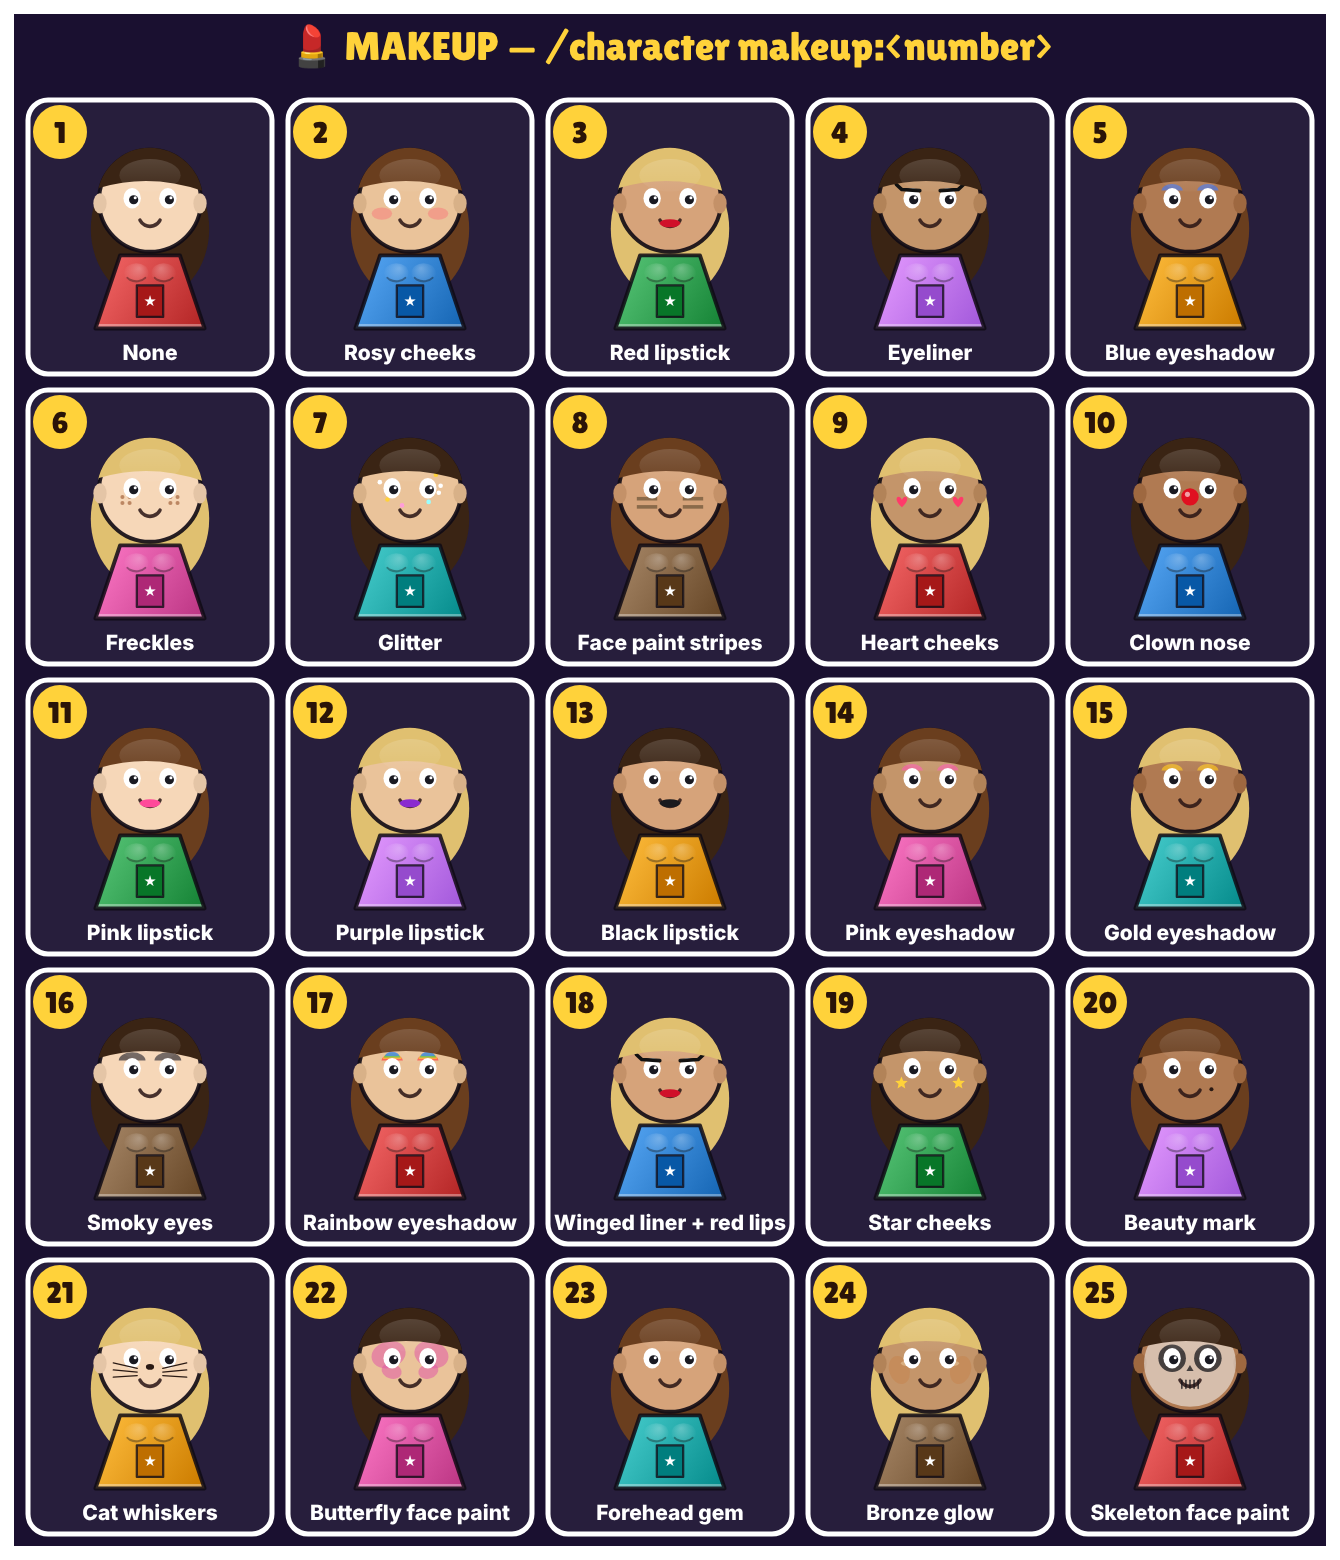
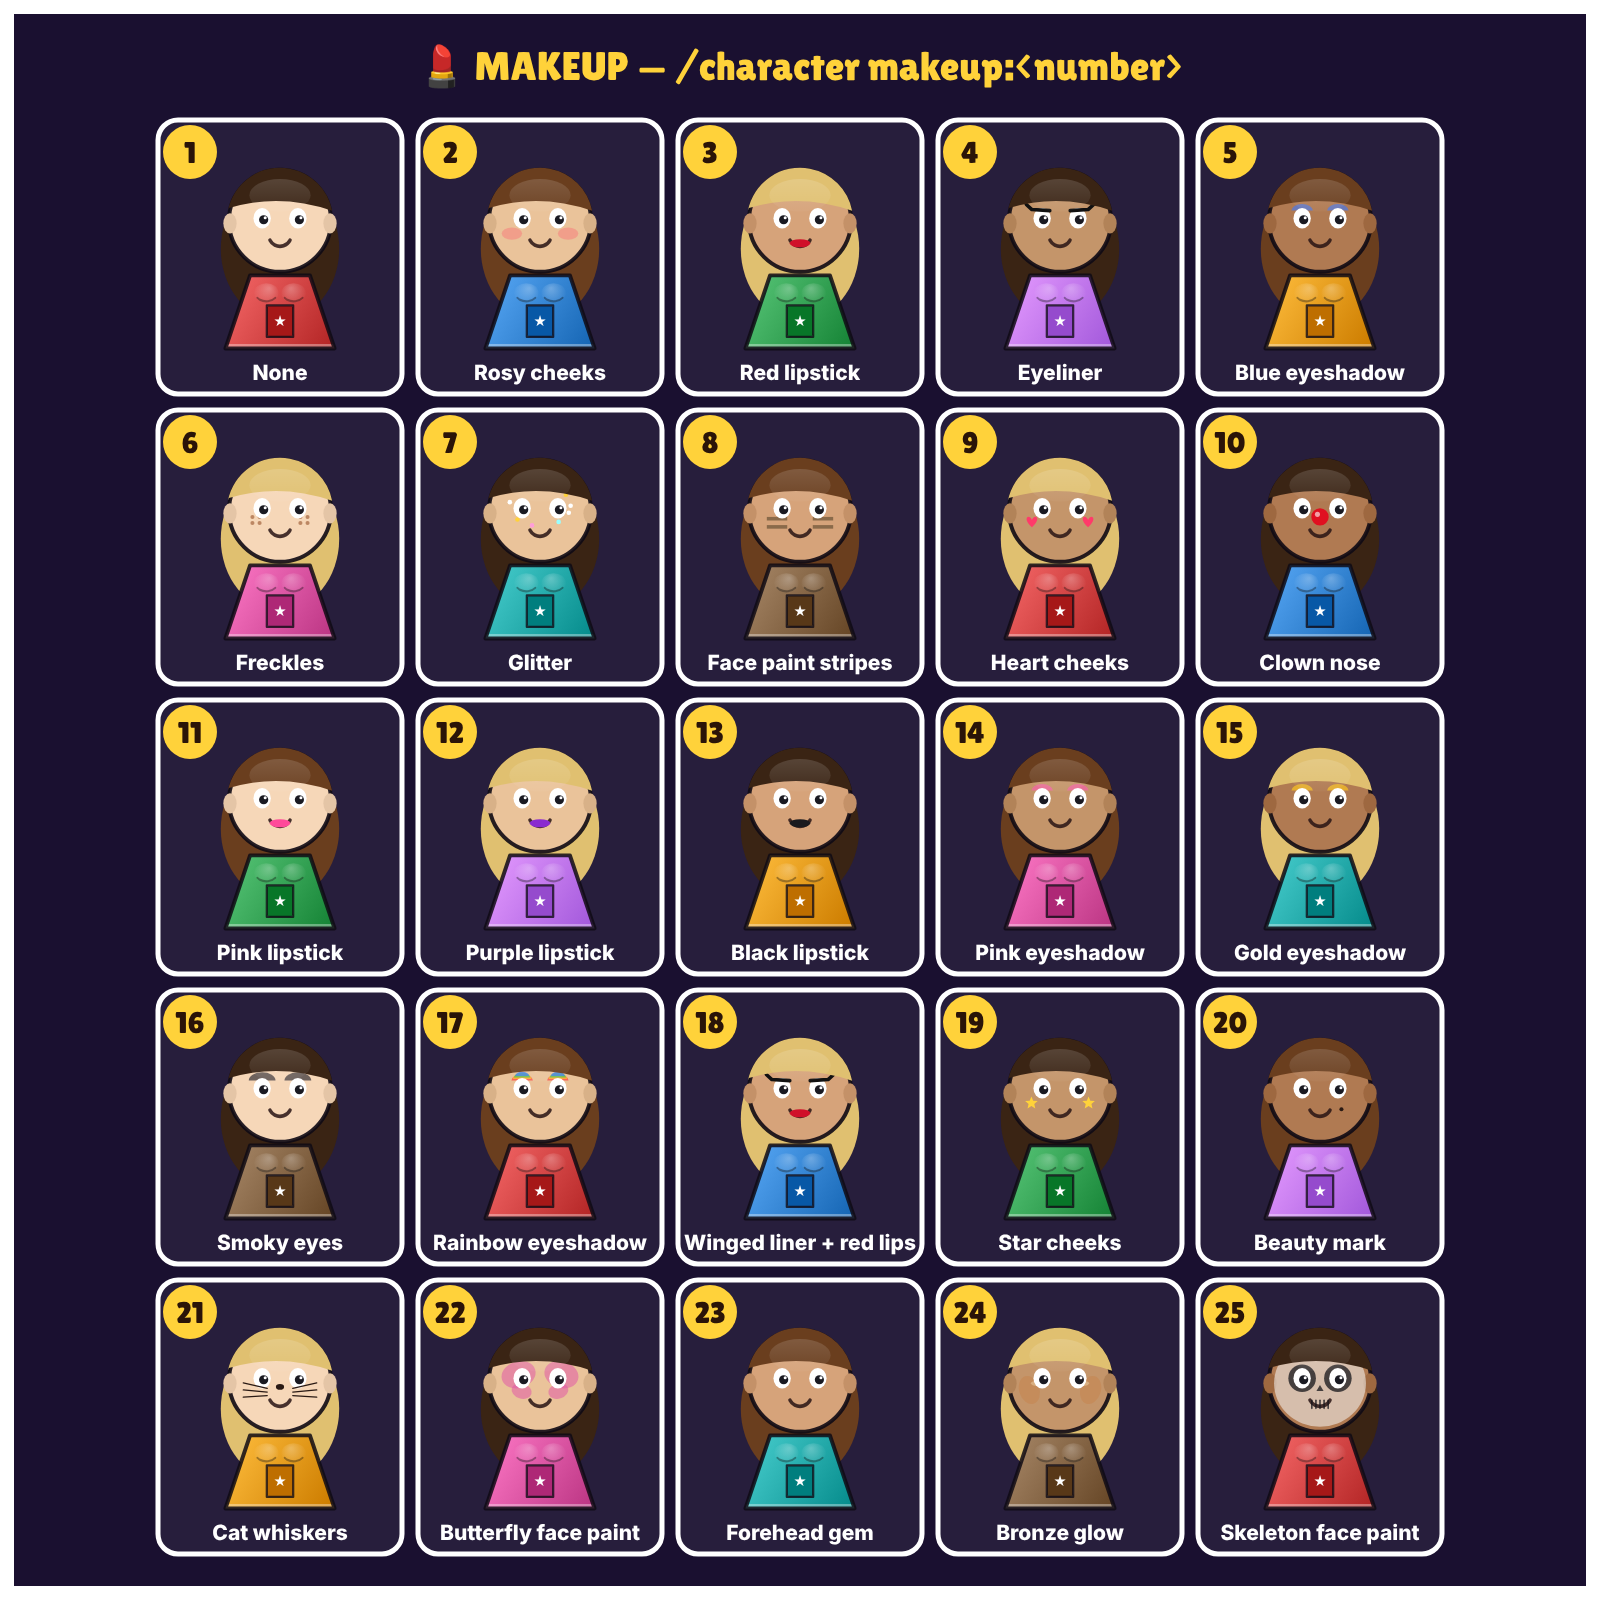
1.57.4: square character sheets so Discord's grid shows them whole
Claude-Session: https://claude.ai/code/session_01CRqiBDMvqLEj8M2E4bKXyK

diff --git a/public/charsheet.html b/public/charsheet.html
@@ -19,7 +19,13 @@ const SHEETS = {
 };
 const P = new URLSearchParams(location.search).get('sheet') || new URLSearchParams(location.search).get('part') || 'hair', S = SHEETS[P] || SHEETS.hair, C = window.CHAR_PARTS, N = C.NAMES, cv = document.getElementById('c'), g = cv.getContext('2d');
 const COLS = ['#d84a4a', '#3a8ad8', '#3aa85a', '#c77dff', '#f0a020', '#e05aa8', '#2ab0b0', '#8a6a4a'];
-function drawSheet() { drawSheet0(); frame(); }
+function drawSheet() { drawSheet0(); square(); frame(); }
+// ⬛ make the picture square: Discord shows several pictures as a grid of squares and cuts off whatever sticks out (Derek's screenshot)
+function square() {
+  const w = cv.width, h = cv.height, n = Math.max(w, h) + 40; if (w === n && h === n) return;
+  const t = document.createElement('canvas'); t.width = w; t.height = h; t.getContext('2d').drawImage(cv, 0, 0);
+  cv.width = cv.height = n; g.fillStyle = '#1a1030'; g.fillRect(0, 0, n, n); g.drawImage(t, Math.round((n - w) / 2), Math.round((n - h) / 2));
+}
 function frame() { g.save(); g.strokeStyle = '#fff'; g.lineWidth = 14; g.strokeRect(7, 7, cv.width - 14, cv.height - 14); g.restore(); } // ⬜ a white border, so pictures next to each other in Discord don't blend together (Derek)
 function drawSheet0() {
   if (P === 'colors') {

diff --git a/CLAUDE.md b/CLAUDE.md
@@ -172,5 +172,5 @@ No look-alikes of real characters/brands (declined a Homer Simpson donut monster
 - **📁 Discord folder + #character-creation (1.57.0, Derek):** discord.js `folder(g)` (category `settings.discordCategory` 'Movie Royal', `db.discordFolders`), `intoFolder(g, ch, warn)` = `setParent(cat, {lockPermissions:false})` (debug/sync keep their hidden overwrites) for picks, chars, debug, sync (prep order = folder order); `setupChars(g)` (`settings.charChannel` / `charChannelName`, `db.discordChars[g]` {channelId, pinId, pinKey = picsVersion + text}): ONE pinned message = how-to + all 9 sheet PNGs. `/character` only there (`charChannelFor`), picture posts go there; worker copy via `cfg.charChannels` (WORKER_V 10). Settings changes → `RESTART_DISCORD`. Self-test checks the folder + channels. Tested only against a pretend Discord.
 - **Map menus (1.54.1):** `MAP_SECS` / `mapSec(m)` in control.html: ⚪ Ball / car only → 🃏 Character only (card maps) → ⚪🃏 Both → 🎉 Holiday, each A–Z (also the tag list in Settings → Game).
 - **🖼 Character pictures (1.55.1):** `public/charone.html?look=&name=&size=` draws one character → `window.__png`; `looks.picture(look, name)` renders it via main.cjs `__desktop.renderPicture(url)` (hidden window) or Playwright when not in Electron (tests). App bot `/character`: reply, then `editReply` with the PNG + channel post (`looks.postOk` = setting `lookPost`, 5 min per person). 24/7 worker `look` op carries `token/app/ch/first` (WORKER_V 9) → `cloud.lookPicture()` PATCHes the original answer (only < 14 min old) + posts in the channel with the bot token (multipart). Test: `GET /api/test/look-picture?look=&name=`.
-- **⬜ Picture borders (1.57.1, Derek):** charsheet.html `frame()` (14 px white border after `drawSheet0()`) + 5 px white border on every part tile (1.57.2) + charone.html white rounded outline, so Discord pictures side by side don't blend. Regenerate public/chars/*.png after sheet changes.
+- **⬜ Picture borders (1.57.1, Derek):** charsheet.html `frame()` (14 px white border after `drawSheet0()`) + 5 px white border on every part tile (1.57.2) + `square()` pads every sheet to a square (1.57.4: Discord's multi-picture grid crops to squares) + charone.html white rounded outline, so Discord pictures side by side don't blend. Regenerate public/chars/*.png after sheet changes.
 - **Pinned commands length (1.57.3):** `helpText()` goes through `fitHelp(top, movies, idea)` (≤1990 letters: drops the oldest tonight's movies as "+ n earlier"); Discord's limit is 2000 per message. Self-test checks it. Keep new lines short.

diff --git a/CHANGELOG.md b/CHANGELOG.md
@@ -2,6 +2,9 @@
 
 What changed in each version of Movie Royal. Newest first.
 
+## 1.57.4
+- ⬛ **The Discord part pictures are square now.** Discord shows the 9 pictures as a grid of squares and was cutting off whatever stuck out (the body and color pictures were cut in half, and the white borders got cut off). Now every picture shows whole in the pinned message in #character-creation, with a white border around each picture and around every hairstyle, outfit and so on inside it.
+
 ## 1.57.3
 - 🛠 **Fixed "couldn't post in #movies-royal … must be 2000 or fewer in length".** The pinned commands message had grown past Discord's 2,000-letter limit (the new /character line tipped it over). The wording is shorter now, and on nights with lots of movies the oldest ones in "Tonight's movies" are folded into "+ n earlier", so it always fits. The Discord self-test on the 🧪 Test tab now checks the length too.
 
